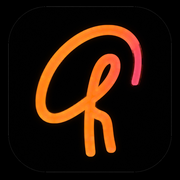
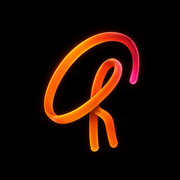
Integration nouvelle icone PWA

Changed region(s): [[0.1944, 0.1111, 0.8056, 0.8889]]

diff --git a/index.html b/index.html
@@ -71,7 +71,7 @@
 </script>
 <meta charset="UTF-8"><meta name="viewport" content="width=device-width,initial-scale=1,maximum-scale=1,user-scalable=no"><title>HAPPYAD</title>
 <!-- HAPPYAD V491 — PWA / application installable stable -->
-<link rel="manifest" href="manifest.webmanifest?v=532">
+<link rel="manifest" href="manifest.webmanifest?v=533icon1">
 <meta name="theme-color" content="#000000">
 <meta name="color-scheme" content="dark">
 <meta name="application-name" content="HAPPYAD">
@@ -79,9 +79,9 @@
 <meta name="apple-mobile-web-app-capable" content="yes">
 <meta name="apple-mobile-web-app-title" content="HAPPYAD">
 <meta name="apple-mobile-web-app-status-bar-style" content="black">
-<link rel="icon" type="image/png" sizes="192x192" href="icons/happyad-icon-192.png?v=532">
-<link rel="apple-touch-icon" sizes="180x180" href="icons/happyad-icon-180.png?v=532">
-<link rel="apple-touch-icon" sizes="192x192" href="icons/happyad-icon-192.png?v=532">
+<link rel="icon" type="image/png" sizes="192x192" href="icons/happyad-icon-192.png?v=533icon1">
+<link rel="apple-touch-icon" sizes="180x180" href="icons/happyad-icon-180.png?v=533icon1">
+<link rel="apple-touch-icon" sizes="192x192" href="icons/happyad-icon-192.png?v=533icon1">
 <style>
 :root{--bg:#030303;--card:#11151d;--line:#2a303b;--muted:#aeb3c0;--orange:#ff8a00;--orange2:#ff4b22}
 *{box-sizing:border-box;-webkit-tap-highlight-color:transparent}html,body{margin:0;background:#030303;color:#fff;font-family:Arial,Helvetica,sans-serif;overflow-x:hidden}body{max-width:520px;margin:auto;min-height:100dvh;background:radial-gradient(circle at 18% -10%,rgba(255,138,0,.22),transparent 32%),linear-gradient(180deg,#07080b,#020202 72%)}
@@ -9647,7 +9647,7 @@ body.happyadNativeChatOpen{overflow:hidden!important;touch-action:none!important
       });
     }catch(_c){}
 
-    navigator.serviceWorker.register('./service-worker.js?v=532',{scope:'./',updateViaCache:'none'}).then(function(reg){
+    navigator.serviceWorker.register('./service-worker.js?v=533icon1',{scope:'./',updateViaCache:'none'}).then(function(reg){
       try{reg.update();}catch(_e){}
 
       try{
@@ -11661,7 +11661,7 @@ body.haHomeCommentLock{overflow:hidden!important;overscroll-behavior:none!import
 #happyadInstallAppBtn .haInstallAction{display:inline-flex!important;align-items:center!important;justify-content:center!important;height:32px!important;border-radius:999px!important;padding:0 11px!important;background:linear-gradient(135deg,#ffb000,#ff6a00)!important;color:#111!important;font-weight:1000!important;font-size:11px!important;box-shadow:0 8px 20px rgba(255,138,0,.24)!important;white-space:nowrap!important}
 @media(max-width:360px){#happyadInstallAppBtn{grid-template-columns:36px minmax(0,1fr) auto!important;gap:8px!important;padding:9px!important;margin:3px 0 7px!important}#happyadInstallAppBtn .haInstallIcon{width:36px!important;height:36px!important;border-radius:13px!important}#happyadInstallAppBtn .haInstallText b{font-size:12px!important}#happyadInstallAppBtn .haInstallText small{font-size:9.5px!important}#happyadInstallAppBtn .haInstallAction{height:30px!important;padding:0 10px!important;font-size:10px!important}}
 </style>
-<button id="happyadInstallAppBtn" type="button" aria-label="Télécharger l’application HAPPYAD"><span class="haInstallIcon" aria-hidden="true"><img src="icons/happyad-icon-192.png?v=532" alt=""></span><span class="haInstallText"><b>Télécharger l’application HAPPYAD</b><small>Accès rapide, notifications et ouverture sans Chrome.</small></span><span class="haInstallAction">Installer</span></button>
+<button id="happyadInstallAppBtn" type="button" aria-label="Télécharger l’application HAPPYAD"><span class="haInstallIcon" aria-hidden="true"><img src="icons/happyad-icon-192.png?v=533icon1" alt=""></span><span class="haInstallText"><b>Télécharger l’application HAPPYAD</b><small>Accès rapide, notifications et ouverture sans Chrome.</small></span><span class="haInstallAction">Installer</span></button>
 <!-- === HAPPYAD V480 APP SHELL / ROUTEUR INTERNE SAFE ===
      Objectif: garder index.html ouvert et afficher Profil/Notifications sans recharge complète à chaque clic.
      Les anciens liens restent utilisables si le fichier est ouvert seul. -->
@@ -11799,6 +11799,8 @@ body.happyadAppOpen{overflow:hidden!important;touch-action:none!important}
     sessionStorage.removeItem('HAPPYAD_BOUTIQUE_RETURN_URL_V503');
     sessionStorage.removeItem('HAPPYAD_BOUTIQUE_RETURN_PAGE_V499');
     sessionStorage.removeItem('HAPPYAD_BOUTIQUE_ENTRY_LOCK_V499');
+    sessionStorage.removeItem('HAPPYAD_BOUTIQUE_BACK_FORCE_MAIN_PROFILE_V501');
+sessionStorage.removeItem('HAPPYAD_PENDING_BOUTIQUE_RETURN_TARGET_V503');
 
     /* Si on quitte Boutique vers Profil/Accueil/Video/etc, on supprime l’ancien retour boutique */
     try{
@@ -11824,16 +11826,25 @@ body.happyadAppOpen{overflow:hidden!important;touch-action:none!important}
     var cur=activeFramePage(), prev='', prevUrl='', it=null, pp='';
 
     if(cur==='boutique'){
-      try{
-        prev=sessionStorage.getItem('HAPPYAD_BOUTIQUE_RETURN_VIEW_V503')||'';
-        prevUrl=sessionStorage.getItem('HAPPYAD_BOUTIQUE_RETURN_URL_V503')||'';
-        sessionStorage.removeItem('HAPPYAD_BOUTIQUE_RETURN_VIEW_V503');
-        sessionStorage.removeItem('HAPPYAD_BOUTIQUE_RETURN_URL_V503');
-        sessionStorage.removeItem('HAPPYAD_BOUTIQUE_RETURN_PAGE_V499');
-        sessionStorage.removeItem('HAPPYAD_BOUTIQUE_ENTRY_LOCK_V499');
-      }catch(_s){}
+  try{
+    prev=sessionStorage.getItem('HAPPYAD_BOUTIQUE_RETURN_VIEW_V503')||'';
+    prevUrl=sessionStorage.getItem('HAPPYAD_BOUTIQUE_RETURN_URL_V503')||'';
 
-      if(prev==='home')return false;
+    sessionStorage.removeItem('HAPPYAD_BOUTIQUE_RETURN_VIEW_V503');
+    sessionStorage.removeItem('HAPPYAD_BOUTIQUE_RETURN_URL_V503');
+    sessionStorage.removeItem('HAPPYAD_BOUTIQUE_RETURN_PAGE_V499');
+    sessionStorage.removeItem('HAPPYAD_BOUTIQUE_ENTRY_LOCK_V499');
+    sessionStorage.removeItem('HAPPYAD_BOUTIQUE_BACK_FORCE_MAIN_PROFILE_V501');
+    sessionStorage.removeItem('HAPPYAD_PENDING_BOUTIQUE_RETURN_TARGET_V503');
+
+    try{
+      delete window.__HAPPYAD_BOUTIQUE_RETURN_V503;
+    }catch(_m){
+      window.__HAPPYAD_BOUTIQUE_RETURN_V503=null;
+    }
+  }catch(_s){}
+
+  if(prev==='home')return false;
       if(prev&&prev!==cur&&!pages[prev]){
         prev='';
         prevUrl='';
@@ -11855,9 +11866,23 @@ body.happyadAppOpen{overflow:hidden!important;touch-action:none!important}
     if(!prev)return false;
     var fr=ensureFrame(prev,prevUrl||pages[prev],false);if(!fr)return false;
     root.querySelectorAll('.happyadAppFrame').forEach(function(x){
-      if(x!==fr)pauseFrameMedia(x,'restore-switch');
-      x.classList.remove('on');
-    });
+  if(x!==fr){
+    pauseFrameMedia(x,'restore-switch');
+    x.classList.remove('on');
+
+    if(x.id==='happyadAppFrame_boutique'){
+      try{
+        x.removeAttribute('data-happyad-src');
+        x.removeAttribute('data-happyad-loading');
+        x.style.opacity='';
+        x.style.visibility='';
+        x.src='about:blank';
+      }catch(_blank){}
+    }
+  }else{
+    x.classList.remove('on');
+  }
+});
     fr.classList.add('on');
     root.classList.add('on');
     root.setAttribute('aria-hidden','false');
@@ -11922,7 +11947,17 @@ body.happyadAppOpen{overflow:hidden!important;touch-action:none!important}
 
 if(forceVideoPostReload||!sameFrameUrl(fr,url)){
   fr.setAttribute('data-happyad-src',url);
-      try{if(page==='profile_public'){fr.setAttribute('data-happyad-loading','1');fr.style.opacity='0';fr.style.visibility='hidden';}else{fr.removeAttribute('data-happyad-loading');fr.style.opacity='';fr.style.visibility='';}}catch(_vis){}
+    try{
+  if(page==='profile_public'||forceVideoPostReload){
+    fr.setAttribute('data-happyad-loading','1');
+    fr.style.opacity='0';
+    fr.style.visibility='hidden';
+  }else{
+    fr.removeAttribute('data-happyad-loading');
+    fr.style.opacity='';
+    fr.style.visibility='';
+  }
+}catch(_vis){}  
       try{if(!preload){var l=loader();if(l)l.classList.add('on');}}catch(_e){}
       try{if((page==='profile_public'||(page==='video'&&/[?&]post=/.test(String(url||''))))&&fr.contentWindow&&fr.contentWindow.location){fr.contentWindow.location.replace(url);}else{fr.src=url;}}catch(_nav){fr.src=url;}
     }
@@ -11983,21 +12018,41 @@ if(forceVideoPostReload||!sameFrameUrl(fr,url)){
   /* V532 boutique clean:
      Quand Boutique revient à Accueil, on nettoie toute ancienne trace boutique.
      Sinon clic Mon profil peut réouvrir Boutique puis rediriger vers Profil. */
+try{
+  sessionStorage.setItem('HAPPYAD_ACTIVE_APP_VIEW','home');
+  sessionStorage.setItem('HAPPYAD_LAST_APP_URL','index.html');
+
+  sessionStorage.removeItem('HAPPYAD_BOUTIQUE_RETURN_VIEW_V503');
+  sessionStorage.removeItem('HAPPYAD_BOUTIQUE_RETURN_URL_V503');
+  sessionStorage.removeItem('HAPPYAD_BOUTIQUE_RETURN_PAGE_V499');
+  sessionStorage.removeItem('HAPPYAD_BOUTIQUE_ENTRY_LOCK_V499');
+  sessionStorage.removeItem('HAPPYAD_BOUTIQUE_BACK_FORCE_MAIN_PROFILE_V501');
+  sessionStorage.removeItem('HAPPYAD_PENDING_BOUTIQUE_RETURN_TARGET_V503');
+
   try{
-    sessionStorage.setItem('HAPPYAD_ACTIVE_APP_VIEW','home');
-    sessionStorage.setItem('HAPPYAD_LAST_APP_URL','index.html');
-    sessionStorage.removeItem('HAPPYAD_BOUTIQUE_RETURN_VIEW_V503');
-    sessionStorage.removeItem('HAPPYAD_BOUTIQUE_RETURN_URL_V503');
-    sessionStorage.removeItem('HAPPYAD_BOUTIQUE_RETURN_PAGE_V499');
-    sessionStorage.removeItem('HAPPYAD_BOUTIQUE_ENTRY_LOCK_V499');
-    sessionStorage.removeItem('HAPPYAD_BOUTIQUE_BACK_FORCE_MAIN_PROFILE_V501');
-    sessionStorage.removeItem('HAPPYAD_PENDING_BOUTIQUE_RETURN_TARGET_V503');
-    try{
-      delete window.__HAPPYAD_BOUTIQUE_RETURN_V503;
-    }catch(_m){
-      window.__HAPPYAD_BOUTIQUE_RETURN_V503=null;
+    frameStack.length=0;
+  }catch(_fs){
+    frameStack=[];
+  }
+
+  try{
+    delete window.__HAPPYAD_BOUTIQUE_RETURN_V503;
+  }catch(_m){
+    window.__HAPPYAD_BOUTIQUE_RETURN_V503=null;
+  }
+
+  try{
+    var bf=document.getElementById('happyadAppFrame_boutique');
+    if(bf){
+      bf.classList.remove('on');
+      bf.removeAttribute('data-happyad-src');
+      bf.removeAttribute('data-happyad-loading');
+      bf.style.opacity='';
+      bf.style.visibility='';
+      try{bf.src='about:blank';}catch(_blank){}
     }
-  }catch(_s){}
+  }catch(_bf){}
+}catch(_s){}
 
   return true;
   }
@@ -12418,8 +12473,8 @@ try{
 }catch(_h){
   actual='';
 }
-
-var needNav=(cur!==url);
+var forceVideoPostReload=(view==='video'&&/[?&]post=/.test(String(url||'')));
+var needNav=forceVideoPostReload||(cur!==url);
 
 try{
   var curPath=pathOf(cur);
@@ -12433,8 +12488,27 @@ try{
 
 if(needNav){
         fr.setAttribute('data-happyad-src',url);
-        try{if(view==='profile_public'){fr.setAttribute('data-happyad-loading','1');fr.style.opacity='0';fr.style.visibility='hidden';}else{fr.removeAttribute('data-happyad-loading');fr.style.opacity='';fr.style.visibility='';}}catch(_vis){}
-        try{if(view==='profile_public'&&fr.contentWindow&&fr.contentWindow.location){fr.contentWindow.location.replace(url);}else{fr.src=url;}}catch(_nav){fr.src=url;}
+        try{
+  if(view==='profile_public'||forceVideoPostReload){
+    fr.setAttribute('data-happyad-loading','1');
+    fr.style.opacity='0';
+    fr.style.visibility='hidden';
+  }else{
+    fr.removeAttribute('data-happyad-loading');
+    fr.style.opacity='';
+    fr.style.visibility='';
+  }
+}catch(_vis){}
+
+try{
+  if((view==='profile_public'||forceVideoPostReload)&&fr.contentWindow&&fr.contentWindow.location){
+    fr.contentWindow.location.replace(url);
+  }else{
+    fr.src=url;
+  }
+}catch(_nav){
+  fr.src=url;
+}
       }else if(view==='profile_public'&&fr.getAttribute('data-happyad-loading')==='1'){
         try{fr.style.opacity='0';fr.style.visibility='hidden';}catch(_keepHidden){}
       }

diff --git a/service-worker.js b/service-worker.js
@@ -3,7 +3,7 @@
    - Ne met jamais Supabase/API en cache.
    - Force les anciennes PWA déjà installées à charger la dernière version.
 */
-const HAPPYAD_PWA_VERSION='v532';
+const HAPPYAD_PWA_VERSION='v533icon1';
 const APP_CACHE='HAPPYAD-PWA-APP-SHELL-'+HAPPYAD_PWA_VERSION;
 const RUNTIME_CACHE='HAPPYAD-PWA-RUNTIME-'+HAPPYAD_PWA_VERSION;
 
@@ -13,17 +13,26 @@ const APP_SHELL=[
   './messages.html',
   './boutique.html',
   './manifest.webmanifest',
-  './icons/happyad-icon-192.png',
-  './icons/happyad-icon-512.png',
+  './icons/happyad-icon-48.png',
+  './icons/happyad-icon-72.png',
+  './icons/happyad-icon-96.png',
+  './icons/happyad-icon-128.png',
+  './icons/happyad-icon-144.png',
+  './icons/happyad-icon-152.png',
   './icons/happyad-icon-180.png',
+  './icons/happyad-icon-192.png',
+  './icons/happyad-icon-384.png',
+  './icons/happyad-icon-512.png',
+  './icons/happyad-icon-maskable-192.png',
+  './icons/happyad-icon-maskable-512.png',
   './icons/happyad-icon-source.png',
+
   './modules/user.html',
   './modules/photo.html',
   './modules/video.html',
   './modules/publish.html',
   './modules/map.html',
-  './modules/notifications.html'
-];
+  './modules/notifications.html'];
 
 self.addEventListener('install',event=>{
   event.waitUntil((async()=>{